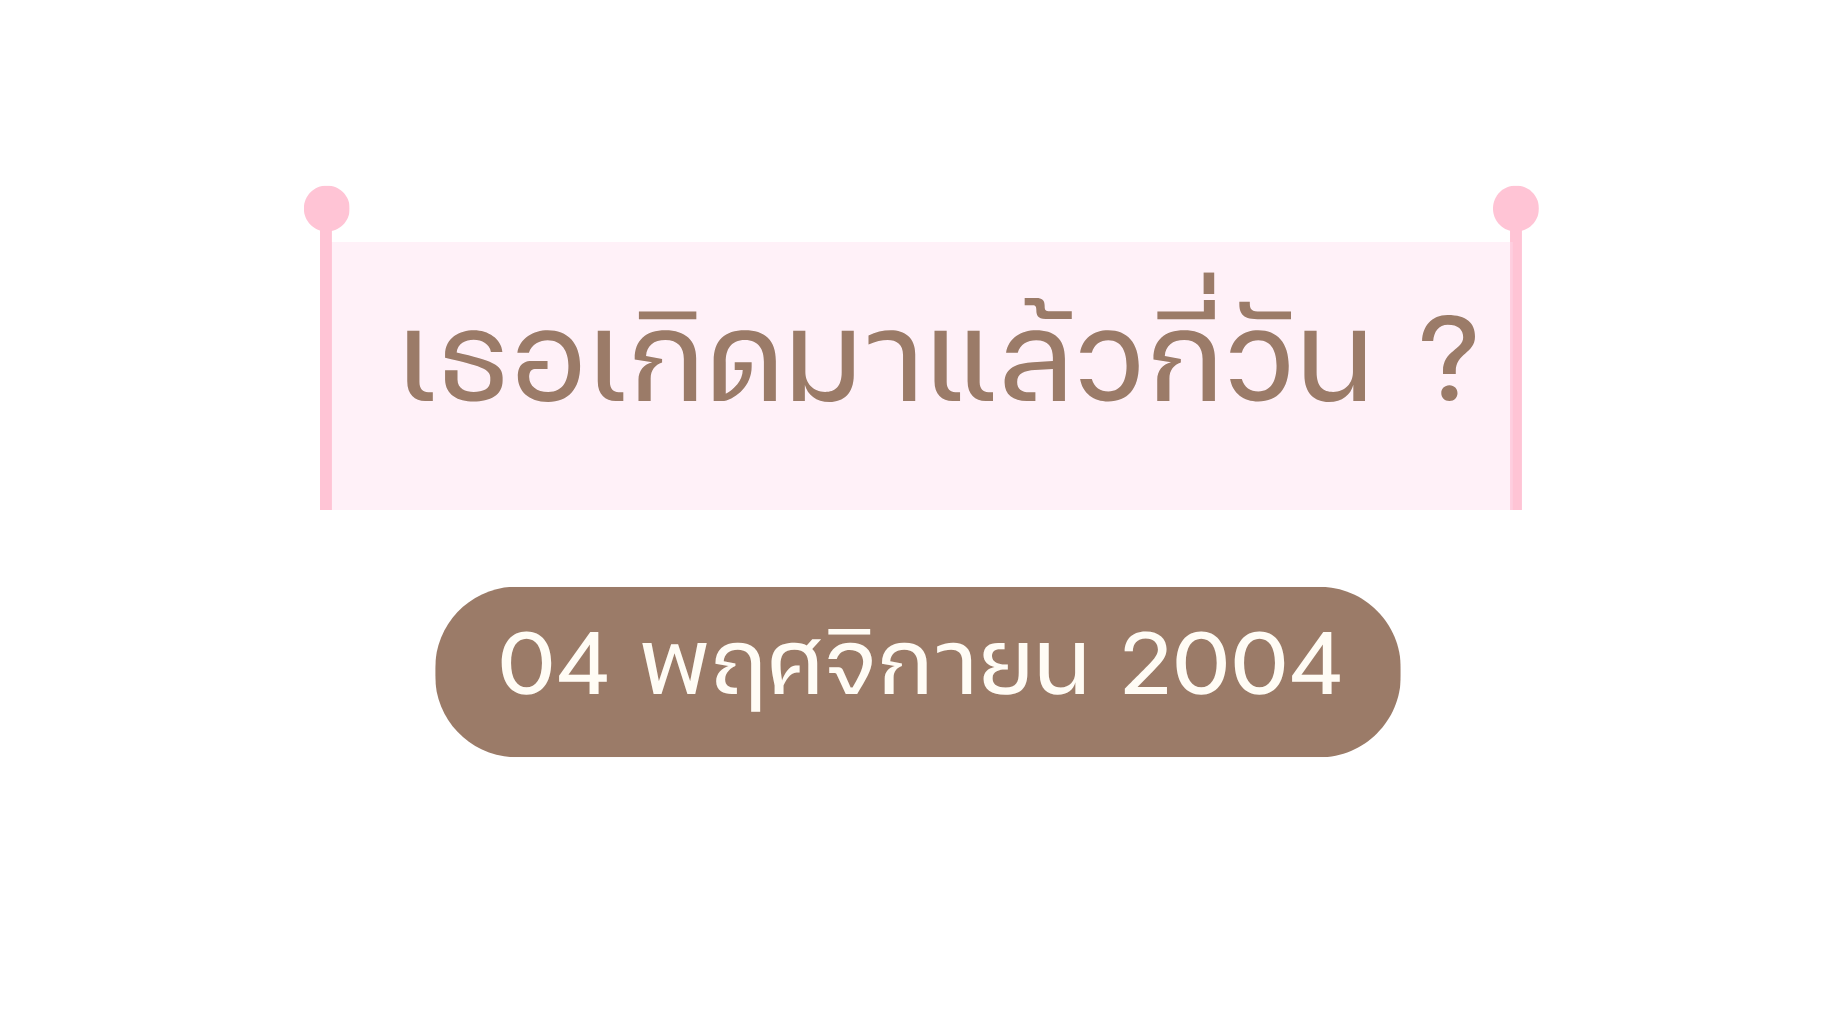
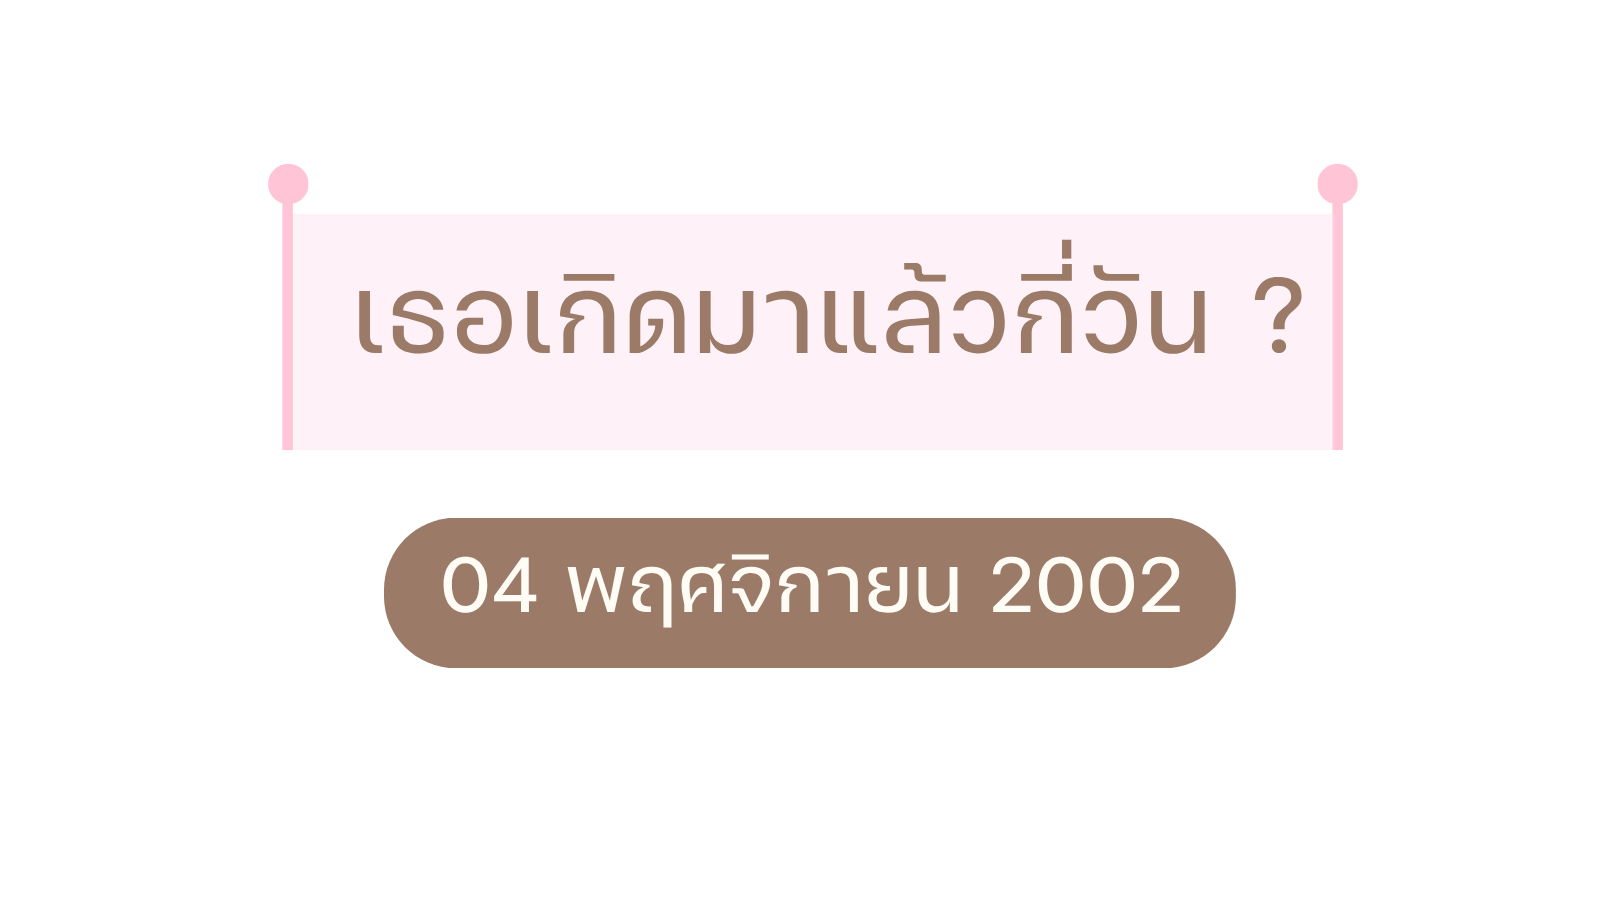
upload website

diff --git a/day.html b/day.html
@@ -1230,7 +1230,7 @@
 
     const birthDate =
       new Date(
-        "2002-09-14T00:00:00"
+        "2002-11-04T00:00:00"
       );
 
 
